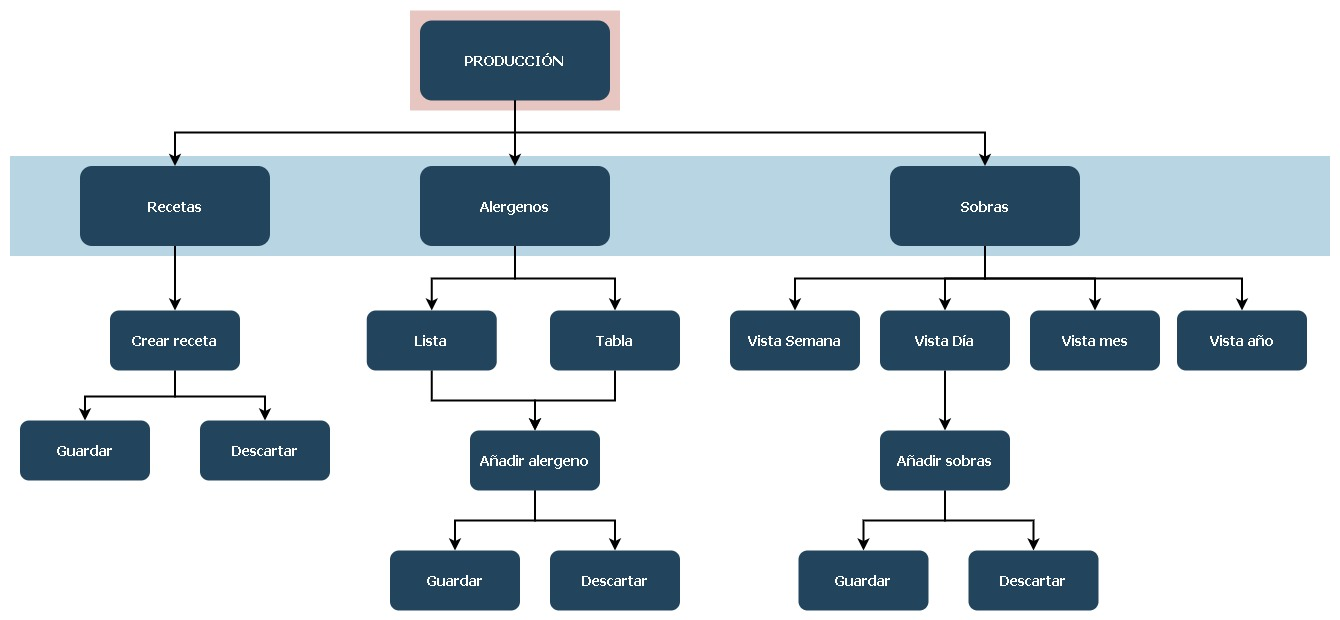
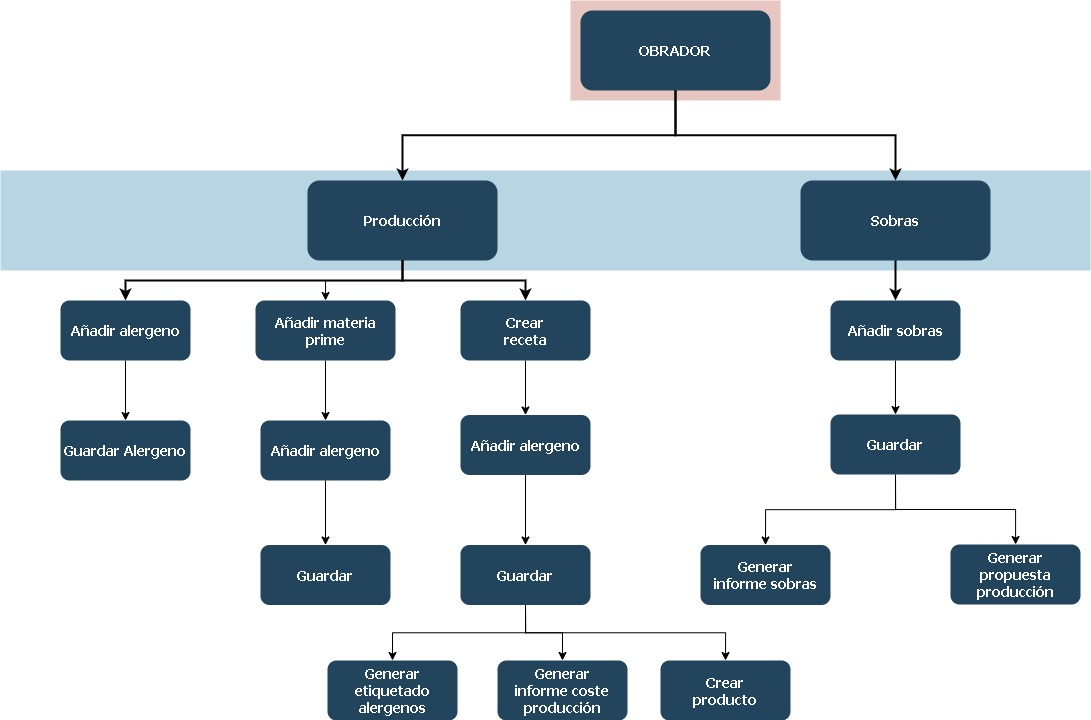
segunda entrega

diff --git a/__manifest__.py b/__manifest__.py
@@ -1,6 +1,6 @@
 # -*- coding: utf-8 -*-
 {
-    'name': "produccion_mod2",
+    'name': "Obrador",
 
     'summary': "Creación de recetas""
         Short (1 phrase/line) summary of the module's purpose, used as
@@ -8,19 +8,14 @@
 
     'description': "Creación de recetas, lista de alergenos presentes en los productos y sobras de alimentos del dia no vendidos.""
         Long description of module's purpose
-    "Creación de recetas a partir de nuestro inventario de materia prima comprada.
-Cada producto final creado tendrá una lista de alergenos.
-Lista de sobras por dia, semana, mes. De está manera se podrá mejorar la producción, reducir las sobras y ahorrar recursos y materia prima. TAB (Recetas)
-Lista de productos de creación propia organizados por: categoria.
-Botton de crear receta/producto: o Ingredientes (se puede escoger de la lista de materia prima que tendremos almacenado en los otros modulos.) o Cantidad: cada ingrediente tendrá la cantidad especificada TAB (Alergenos)
-Lista alergenos
-Botton NUEVO alergeno: donde podremos añadir nuevos alergenos.
-Tenemos una vista por lista de alergenos y otra vista por tabla de alergenos junto con los productos TAB(Sobras)
-Vemos una lista (que se puede organizar por dia, semana o mes) con las sobras.
-Hay in botton de NUEVO, donde se puede poner las sobras de ese día de alimentos perecederos."",
+    "Creación de recetas a partir del stock de materia prima y asignación de alergenos, tanto a las recetas como a la materia prima. Con la información de los alergenos y materia prima, se podrá crear etiquetado para los productos elaborados.
+	Añadir las sobras del día y como consecuencia se calculará automaticamente las sobras totales de la semana, mes o año, además de calcular el desperdicio de materia prima a lo largo del tiempo.
+	Con las sobras de todas las semanas, el sistema, propondrá una cantidad de producción para las semanas siguientes para asi poder minimizar las sobras.
+	Con la información del stock de materia prima, junto con el precio, se nos calculará el coste de producción de cada elaboración. Esto nos ayudará a mejorar nuestro marjen de ganancias, además de poder ver donde estamos perdinedo dinero y recursos.
+"",
 
     'author': "Alexandra Raluca, Savu",
-    'website': "https://github.com/alyraluca/produccion_mod2",
+    'website': "https://github.com/alyraluca/Obrador",
 
     # Categories can be used to filter modules in modules listing
     # Check https://github.com/odoo/odoo/blob/14.0/odoo/addons/base/data/ir_module_category_data.xml

diff --git a/docs/index.md b/docs/index.md
@@ -1,114 +1,65 @@
 
 # Producción Modulo 2
 
-NOMBRE: producción
+NOMBRE: Obrador
 
 DESCRIPCIÓN
 Creación de recetas, lista de alergenos presentes en los productos y sobras de alimentos del dia no vendidos.
 
 ### DESCRIPCIÓN DETALLADA
 
--	Creación de recetas a partir de nuestro inventario de materia prima comprada.
--	Cada producto final creado tendrá una lista de alergenos.
--	Lista de sobras por dia, semana, mes. De está manera se podrá mejorar la producción, reducir las sobras y ahorrar recursos y materia prima.
-TAB (Recetas)
--	Lista de productos de creación propia organizados por: categoria.
--	Botton de crear receta/producto:
-o	Ingredientes (se puede escoger de la lista de materia prima que tendremos almacenado en los otros modulos.)
-o	Cantidad: cada ingrediente tendrá la cantidad especificada
-TAB (Alergenos)
--	Lista alergenos
--	Botton NUEVO alergeno: donde podremos añadir nuevos alergenos.
--	Tenemos una vista por lista de alergenos y otra vista por tabla de alergenos junto con los productos
-TAB(Sobras)
--	Vemos una lista (que se puede organizar por dia, semana o mes) con las sobras.
--	Hay in botton de NUEVO, donde se puede poner las sobras de ese día de alimentos perecederos.
+Creación de recetas a partir del stock de materia prima y asignación de alergenos, tanto a las recetas como a la materia prima. Con la información de los alergenos y materia prima, se podrá crear etiquetado para los productos elaborados.
+Añadir las sobras del día y como consecuencia se calculará automaticamente las sobras totales de la semana, mes o año, además de calcular el desperdicio de materia prima a lo largo del tiempo.
+Con las sobras de todas las semanas, el sistema, propondrá una cantidad de producción para las semanas siguientes para asi poder minimizar las sobras.
+Con la información del stock de materia prima, junto con el precio, se nos calculará el coste de producción de cada elaboración. Esto nos ayudará a mejorar nuestro marjen de ganancias, además de poder ver donde estamos perdinedo dinero y recursos.
+
 
 ### MAPA MODULO 2
 
 ![mapa__module2.jpg](img/mapa__module2.jpg)
 
-### DEPENDENCIAS DE OTROS MODULOS
 
-Modulo 2 depende de: Compras, Ventas. Necesitamos la lista de productos/ingredientes del modulo de ‘Compas’. También necesitamos la lista de productos que vendemos del modulo de ‘Ventas’.
 
 ### WIREFRAME
 
-Wireframe de la TAB de ‘Recetas’.
+Wireframe del TAB de ‘Producción’.
 
 ![wireframe_recetas1.jpg](img/wireframe_recetas1.jpg)
 
-Wireframe del TAB de ‘Recetas’ de la función de ‘Crear Recetas’.
+Wireframe del TAB de ‘Producción’ de la función de ‘Crear Recetas’.
 
 ![wireframe_recetas2.jpg](img/wireframe_recetas2.jpg)
 
-Wireframe del TAB de ‘Alergenos’ con vista en forma de tabla.
+Wireframe del TAB de ‘Sobras’ con vista en forma de tabla.
 
 ![wireframe_alergenos1.jpg](img/wireframe_alergenos1.jpg)
 
-Wireframe del TAB de ‘Alergenos’ con vista en forma de lista.
-
-![wireframe_alergenos2.jpg](img/wireframe_alergenos2.jpg)
-
-Wireframe del TAB de ‘Alergenos’ de la función de ‘Nueva receta’.
-
-![wireframe_alergenos3.jpg](img/wireframe_alergenos3.jpg)
-
-Wireframe del TAB de ‘Sobras’ con la vista de lista.
-
-![wireframe_sobras1.jpg](img/wireframe_sobras1.jpg)
-
-Wireframe del TAB de ‘Sobras’ con la función de ‘Nuevas Sobras’.
-
-![wireframe_sobras2.jpg](img/wireframe_sobras2.jpg)
 
 ### CONTROL DE ACCESO
 
 Grupos: administradores, empleados.
 Acceso al modulo: todos los usuarios
-Administradores: acceso a ‘Recetas’, ‘Alergenos’ y ‘Sobras’.
+Administradores: acceso a ‘Producción’ y ‘Sobras’.
 	- Permiso de lectura y escritura a todos los modulos.
-Empleados: acceso a ‘Recetas’, ‘Alergenos’ y ‘Sobras’.
-	- Permiso de lectura y escritura a ‘Recetas’, ‘Alergenos’ y ‘Sobras’.
+Empleados: acceso a ‘Producción’ y ‘Sobras’.
+	- Permiso de lectura y escritura a ‘Producción’ y ‘Sobras’.
+
 
 ### DIAGRAMAS DE FLUJO
 
-Diagrama de flujo del TAB de ‘Recetas’
+Diagrama de flujo del TAB de ‘Producción’.
 
 ![flowchart_recetas.jpg](img/flowchart_recetas.jpg)
 
-Diagrama de flujo del TAB de ‘Alergenos’
-
-![flowchart_alergenos.jpg](img/flowchart_alergenos.jpg)
-
-Diagrama de flujo del TAB de ‘Sobras’
+Diagrama de flujo del TAB de ‘Sobras’.
 
 ![flowchart_sobras.jpg](img/flowchart_sobras.jpg)
+
 
 ### ESQUEMA RELACIONAL DE LAS NUEVAS TABLAS
 
 ![data_base_module2.jpg](img/data_base_module2.jpg)
 
-
-### CARACTERISTICAS COMUNICACIÓN
-
-Modulo 2: comunica con compras y ventas.
-Requisitos: acceso a la lista de materia prima del modulo de ‘Compras’ y acceso a los productos que vendemos del modulo de ‘Ventas’.
-Protocolo/ Formato del mensaje: podemos utilizar RPC (es una llamada remota a procedimientos para invocar funciones de otros módulos) o también podemos hacer uso de una base de datos compartida.
-Estructura Mensaje RPC:
-
-
-                module1/models/module1_model.py
-                from odoo import models, api
-                class Module1Model(models.Model):
-                    _name = 'module1.model'
-
-                    @api.model
-                    def call_remote_function(self, data):
-                        module2_model = self.env['module2.model']
-                        result = module2_model.process_data_remotely(data)
-                        # Procesar el resultado si es necesario
-                        return result
 
 
 
